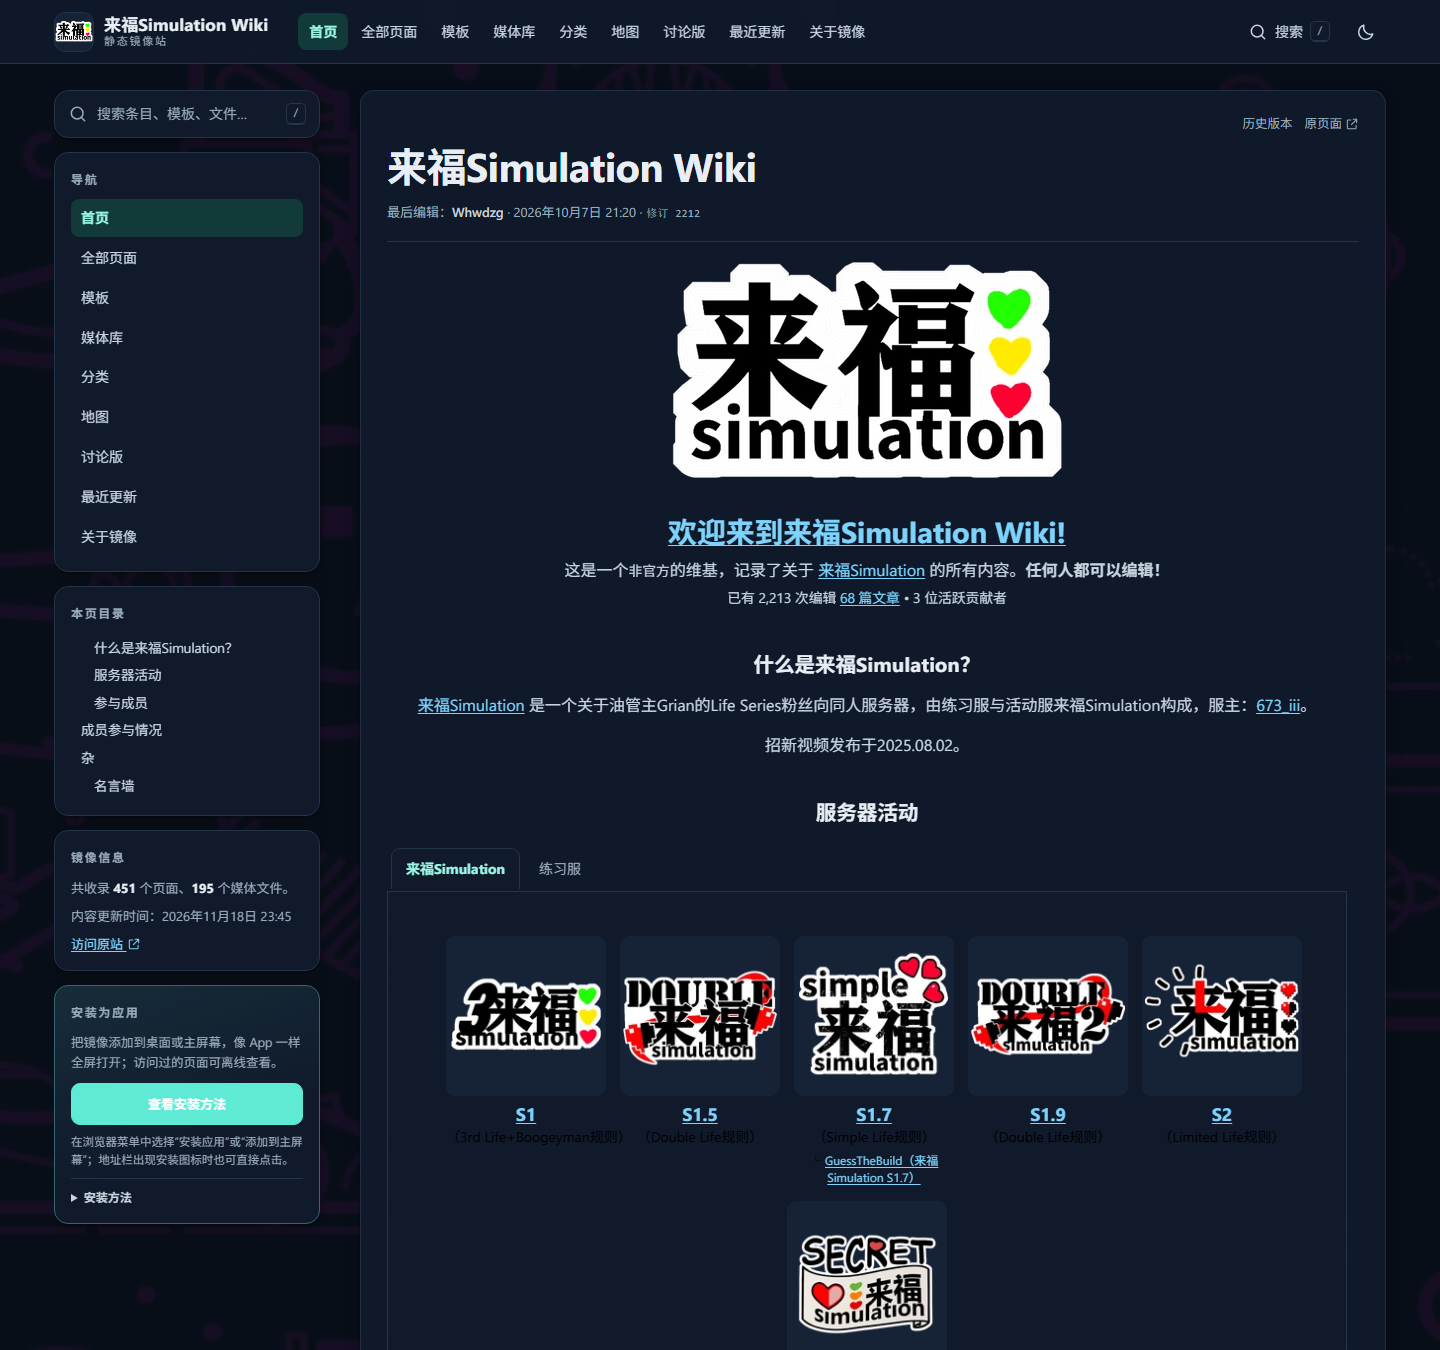
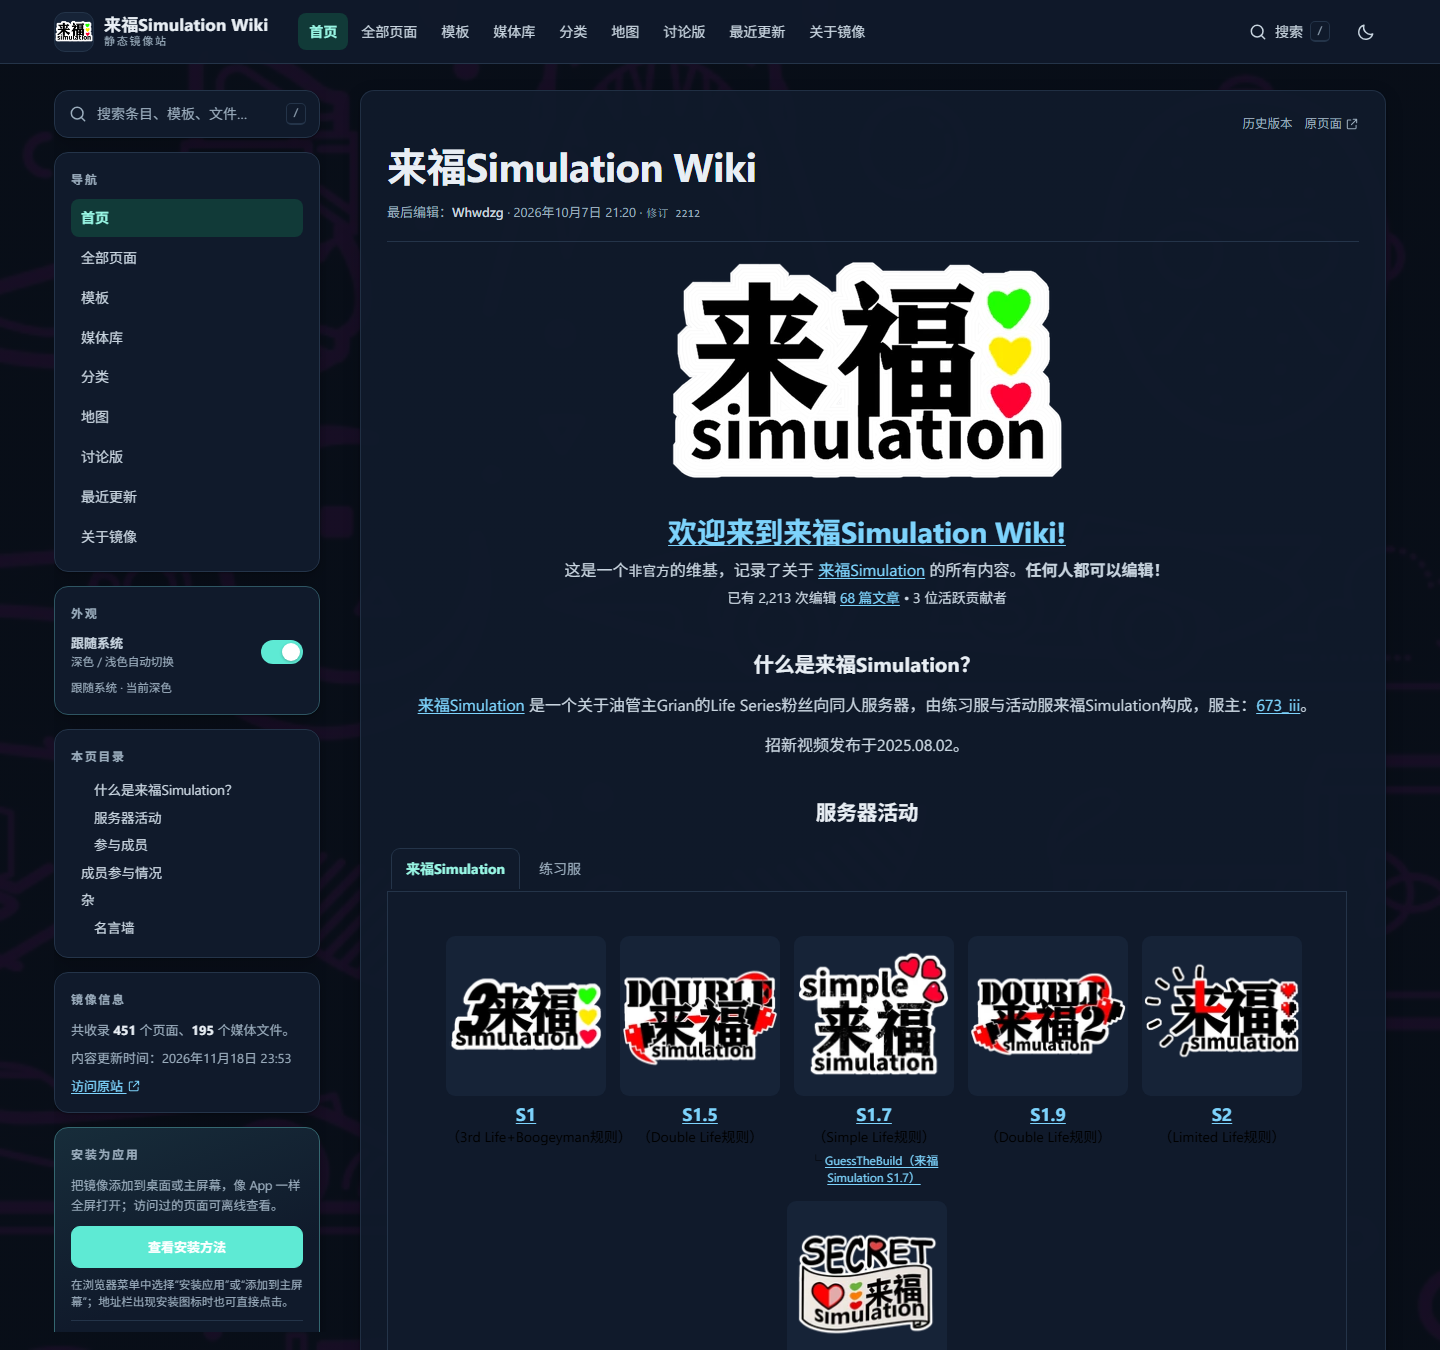
Add follow-system theme switch to sidebar
Add an appearance switch that defaults to following the OS color scheme, keeps the current theme when disabled, persists the preference, reacts to system changes, and stays in sync with the header theme toggle.

Changed region(s): [[0.0312, 0.4356, 0.2188, 0.9956]]

diff --git a/src/assets/app.js b/src/assets/app.js
@@ -29,20 +29,58 @@ const escapeHtml = (value) =>
 
 function setupTheme() {
   const button = qs('[data-theme-toggle]')
-  if (!button) return
-  button.addEventListener('click', () => {
-    const next = root.dataset.theme === 'dark' ? 'light' : 'dark'
-    root.dataset.theme = next
-    root.classList.toggle('theme-fandomdesktop-dark', next === 'dark')
-    try {
-      localStorage.setItem('wiki-theme', next)
-    } catch {
-      /* ignore */
+  const systemToggle = qs('[data-theme-system]')
+  const themeStatus = qs('[data-theme-status]')
+  const media = window.matchMedia?.('(prefers-color-scheme: dark)')
+  let mode = ['system', 'light', 'dark'].includes(root.dataset.themeMode) ? root.dataset.themeMode : 'system'
+
+  const apply = (nextMode, { persist = true } = {}) => {
+    mode = nextMode
+    const theme = mode === 'system' ? (media?.matches ? 'dark' : 'light') : mode
+    root.dataset.themeMode = mode
+    root.dataset.theme = theme
+    root.classList.toggle('theme-fandomdesktop-dark', theme === 'dark')
+    if (systemToggle) systemToggle.checked = mode === 'system'
+    if (themeStatus) {
+      themeStatus.textContent =
+        mode === 'system' ? `跟随系统 · 当前${theme === 'dark' ? '深色' : '浅色'}` : `手动选择 · 当前${theme === 'dark' ? '深色' : '浅色'}`
     }
-    button.setAttribute('aria-label', next === 'dark' ? '切换到浅色主题' : '切换到深色主题')
+    if (button) {
+      button.setAttribute('aria-label', theme === 'dark' ? '切换到浅色主题' : '切换到深色主题')
+      button.title = theme === 'dark' ? '切换到浅色主题' : '切换到深色主题'
+    }
+    if (persist) {
+      try {
+        localStorage.setItem('wiki-theme-mode', mode)
+        if (mode === 'system') localStorage.removeItem('wiki-theme')
+        else localStorage.setItem('wiki-theme', mode)
+      } catch {
+        /* ignore */
+      }
+    }
     window.dispatchEvent(new Event('wiki:theme'))
+  }
+
+  apply(mode, { persist: false })
+  try {
+    if (!localStorage.getItem('wiki-theme-mode')) localStorage.setItem('wiki-theme-mode', mode)
+  } catch {
+    /* ignore */
+  }
+
+  button?.addEventListener('click', () => {
+    apply(root.dataset.theme === 'dark' ? 'light' : 'dark')
   })
-  button.setAttribute('aria-label', root.dataset.theme === 'dark' ? '切换到浅色主题' : '切换到深色主题')
+  systemToggle?.addEventListener('change', () => {
+    apply(systemToggle.checked ? 'system' : root.dataset.theme || 'light')
+  })
+  if (media) {
+    const onChange = () => {
+      if (mode === 'system') apply('system', { persist: false })
+    }
+    if (media.addEventListener) media.addEventListener('change', onChange)
+    else media.addListener?.(onChange)
+  }
 }
 
 /* --------------------------------------------------------------------------

diff --git a/src/assets/style.css b/src/assets/style.css
@@ -546,6 +546,96 @@ html[data-theme="dark"] .theme-toggle .icon:nth-child(2) {
   color: var(--text-soft);
 }
 
+.sidebar-theme {
+  border-color: color-mix(in srgb, var(--accent) 18%, var(--border));
+}
+
+.theme-switch {
+  display: flex;
+  align-items: center;
+  justify-content: space-between;
+  gap: 12px;
+  cursor: pointer;
+}
+
+.theme-switch__text {
+  display: flex;
+  flex-direction: column;
+  gap: 2px;
+  color: var(--text-soft);
+  font-size: 13px;
+  line-height: 1.4;
+}
+
+.theme-switch__text strong {
+  font-weight: 650;
+}
+
+.theme-switch__text small {
+  color: var(--muted);
+  font-size: 11.5px;
+}
+
+.switch {
+  position: relative;
+  display: block;
+  width: 42px;
+  height: 24px;
+  flex: none;
+}
+
+.switch input {
+  position: absolute;
+  inset: 0;
+  z-index: 1;
+  width: 100%;
+  height: 100%;
+  margin: 0;
+  opacity: 0;
+  cursor: pointer;
+}
+
+.switch__track {
+  position: absolute;
+  inset: 0;
+  display: block;
+  border-radius: 999px;
+  background: var(--border-strong);
+  transition: background 150ms ease;
+}
+
+.switch__track::after {
+  content: "";
+  position: absolute;
+  top: 3px;
+  left: 3px;
+  width: 18px;
+  height: 18px;
+  border-radius: 50%;
+  background: #fff;
+  box-shadow: 0 1px 3px rgb(0 0 0 / 25%);
+  transition: transform 150ms ease;
+}
+
+.switch input:checked + .switch__track {
+  background: var(--accent);
+}
+
+.switch input:checked + .switch__track::after {
+  transform: translateX(18px);
+}
+
+.switch input:focus-visible + .switch__track {
+  outline: 2px solid var(--accent);
+  outline-offset: 2px;
+}
+
+.theme-status {
+  margin: 8px 0 0;
+  color: var(--muted);
+  font-size: 11.5px;
+}
+
 /* --------------------------------------------------------------------------
    Main column, breadcrumb, page head
    -------------------------------------------------------------------------- */

diff --git a/README.md b/README.md
@@ -39,6 +39,7 @@
 | 讨论版 | 3 个主题、8 条回复（随源站变化） |
 | 历史版本 | 451 个页面的 2,139 个修订，支持逐行对比 |
 | PWA | 可安装到桌面/主屏幕，离线访问已浏览页面 |
+| 主题 | 深色/浅色，默认跟随系统，可手动切换并记住 |
 | 许可 | 内容 CC BY-SA 3.0，代码 GPL-3.0 |
 
 ## 特性
@@ -54,6 +55,7 @@
 - **站内链接预览**：鼠标悬停条目内的站内链接时，显示标题、命名空间、摘要与缩略图的浮动预览卡片，支持键盘聚焦，移动端自动关闭。
 - **历史版本与差异**：每个页面生成独立的历史页，列出全部修订、作者、时间、摘要和大小；勾选两个版本即可查看逐行差异，并可查看任意版本的维基文本源代码。
 - **可安装 PWA**：提供 Web App Manifest、应用图标与 Service Worker，侧边栏底部有安装说明和按钮；安装后全屏运行，已访问页面可离线打开。
+- **跟随系统主题**：侧边栏“外观”开关默认开启，深色/浅色随系统自动切换；关闭后可手动选择并记住偏好，也仍可用顶部主题按钮切换。
 - **页面评论（尽力抓取）**：尝试调用 Fandom `ArticleCommentsController` 获取条目评论、作者、时间与回复；源站未启用评论或接口返回空时，页面会显示空状态并链接到原站评论区。
 - **站内搜索**：构建时生成 `data/search.json`，支持标题、摘要与正文搜索，键盘操作和移动端均可用。
 - **主题背景同步**：构建时读取源站 `Site-background-light` / `Site-background-dark`，浅色和深色主题分别使用对应背景图，并叠加半透明内容面板保证可读性。
@@ -93,10 +95,10 @@
 <p align="center"><sub>历史版本：修订列表 · 勾选两版 · 逐行差异 · 维基文本源代码</sub></p>
 
 <p align="center">
-  <img src="docs/screenshots/pwa.png" alt="侧边栏底部的 PWA 安装引导、说明和按钮" width="90%">
+  <img src="docs/screenshots/pwa.png" alt="侧边栏的外观跟随系统开关与 PWA 安装引导" width="90%">
 </p>
 
-<p align="center"><sub>侧边栏底部：安装为应用 · 浏览器安装引导 · 安装方法说明</sub></p>
+<p align="center"><sub>侧边栏：外观跟随系统开关 · PWA 安装引导与说明</sub></p>
 
 ## 工作方式
 
